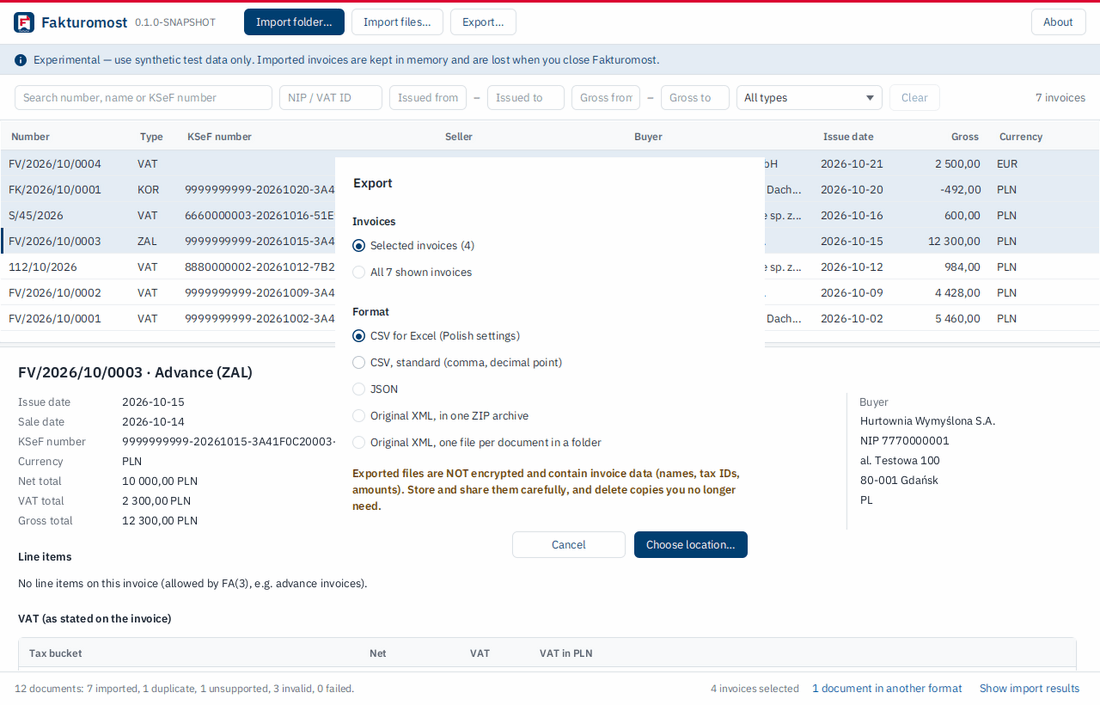
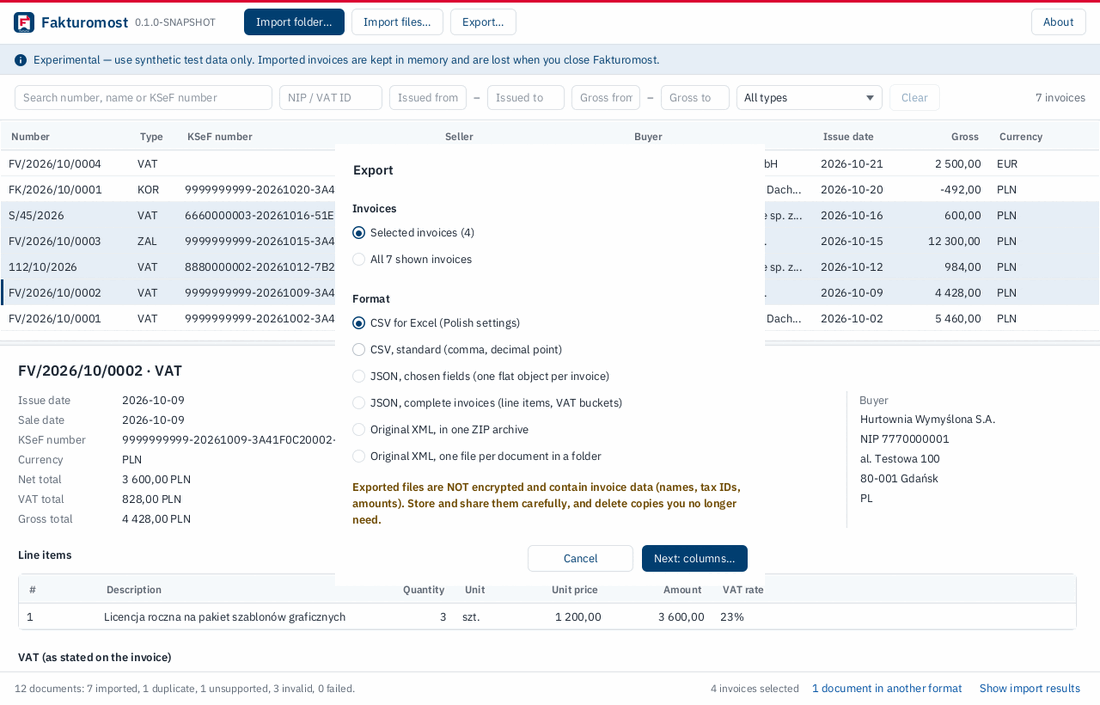
update readme and gif

diff --git a/README.md b/README.md
@@ -18,9 +18,9 @@ Open-source desktop app and CLI to import, browse, validate and export Polish **
 
 [Features](#features) · [Download](#download) · [Build from source](#quick-start-from-source) · [CLI](#command-line-tool) · [Exports](#export-formats) · [Security](#security-and-privacy) · [Architecture](#architecture) · [Roadmap](#roadmap) · [Po polsku](#po-polsku)
 
-<img src="docs/images/demo.gif" width="900" alt="Fakturomost demo: importing a folder of KSeF invoices, reading the import report, opening a correction invoice, searching, and exporting four invoices to a CSV file for Excel">
+<img src="docs/images/demo.gif" width="900" alt="Fakturomost demo: importing a folder of KSeF invoices, reading the import report, opening a correction invoice, searching, choosing the export columns (renaming the issue date to Data21 and adding net and VAT at 23%), and exporting four invoices to a CSV file for Excel">
 
-<sub>Import a folder of KSeF downloads → see what was imported and why something was rejected → browse and search → export the selection to CSV for Excel. Demo data is fully synthetic.</sub>
+<sub>Import a folder of KSeF downloads → see what was imported and why something was rejected → browse and search → choose and rename the export columns → export the selection to CSV for Excel. Demo data is fully synthetic.</sub>
 
 </div>
 
@@ -38,7 +38,7 @@ Fakturomost sits between the two:
 1. **Download** your invoices from KSeF as XML or a ZIP package (e.g. from the taxpayer application *Aplikacja Podatnika KSeF*).
 2. **Import** the files or the whole folder into Fakturomost.
 3. **Browse, search and check** them in a clear table with full invoice details.
-4. **Export** exactly the invoices you need to **CSV (ready for Excel with Polish settings)**, **JSON**, or as **original, unchanged XML**.
+4. **Export** exactly the invoices you need to **CSV (ready for Excel with Polish settings)**, **JSON**, or as **original, unchanged XML** — with the columns, order and header names your other software expects.
 
 Everything happens **locally**. Fakturomost has no server, no account, no telemetry, and does not connect to KSeF in this version.
 
@@ -81,7 +81,7 @@ What works today (see the [roadmap](#roadmap) for what's next):
   </tr>
   <tr>
     <td width="50%"><img src="docs/images/screenshot-filters.png" alt="Search for 'kawiarnia' showing 2 of 7 invoices"><br><sub><b>Search and filters</b> — text, NIP, dates, amounts, type</sub></td>
-    <td width="50%"><img src="docs/images/screenshot-export.png" alt="Export dialog: selected or all shown invoices, CSV, JSON or original XML, and a warning that exported files are not encrypted"><br><sub><b>Export</b> — selected or all shown invoices, as CSV for Excel, CSV, JSON or original XML</sub></td>
+    <td width="50%"><img src="docs/images/screenshot-export.png" alt="Export dialog: selected or all shown invoices, CSV for Excel, standard CSV, JSON with chosen fields, complete JSON or original XML, and a warning that exported files are not encrypted"><br><sub><b>Export</b> — selected or all shown invoices, as CSV, JSON (chosen fields or complete) or original XML; CSV and chosen-fields JSON continue to <a href="#csv-one-row-per-invoice">column selection</a></sub></td>
   </tr>
 </table>
 
@@ -322,7 +322,7 @@ Design principles: the core knows nothing about Spring, JavaFX, databases or the
 | 1 | Project foundation: modules, Spring without HTTP, CI on Linux + Windows | ✅ Done |
 | 2 | Invoice processing: FA(3) parsing, offline XSD validation, XML/ZIP import, dedup, CSV/JSON/XML export | ✅ Done |
 | 3 | Command-line tool: `inspect`, `convert` | ✅ Done |
-| 4 | Desktop app: import, invoice table, details, filters, export | ✅ Done |
+| 4 | Desktop app: import, invoice table, details, filters, export (incl. choosing, ordering and renaming columns) | ✅ Done |
 | 5 | Secure local storage: encrypted SQLite, DPAPI-protected key, data survives restarts | 🚧 Next up |
 | 6 | Windows installer with bundled Java runtime and demo data | 🧪 Portable Windows/Linux builds available; installer planned |
 | 7 | Hardening: encrypted backup and restore, threat model, documentation | 📋 Planned |
